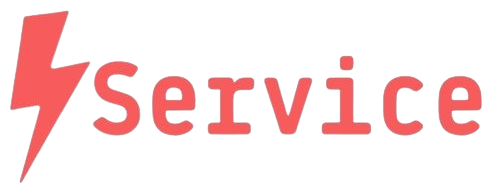
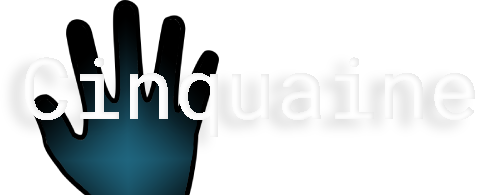
Update_css

diff --git a/assets/css/style.css b/assets/css/style.css
@@ -1,0 +1,100 @@
+@font-face {
+    font-family: Roboto;
+    src: url("../../font/Roboto_Mono/RobotoMono-VariableFont_wght.ttf");
+}
+
+:root {
+    --blue-color: #1F657E;
+}
+
+body {
+    font-family: "Roboto";
+    color: white;
+}
+
+.bckgroundblack {
+    background-color: black;
+}
+
+nav {
+    background-image: url("../image/navbckground.png");
+    width: 100%;
+    height: 200px;
+    background-repeat: no-repeat;
+    background-size: cover;
+    padding-top: 15vh;
+    color: white;
+    padding-left: 1vw;
+    padding-right: 1vw;
+}
+
+footer {
+    background-color: black;
+}
+
+footer .bkground {
+    padding-top: 2vh;
+    align-items: center;
+    background-image: url("../image/Footer\ Bckground.png");
+    width: 100%;
+    min-height: 100px;
+    background-repeat: no-repeat;
+    background-size: cover;
+}
+
+.brand {
+    width: 70px;
+    height: 70px;
+    position: relative;
+    top: 7px;
+}
+
+.nav-link,
+.navbar-brand {
+    color: white !important;
+}
+
+.loginform {
+    background: rgba(31, 101, 126, 0.4);
+    border-radius: 10px;
+    text-align: center;
+    margin: 5% 10%;
+    margin-top: 5%;
+    margin-right: 10%;
+    margin-bottom: 5%;
+    margin-left: 10%;
+    padding: 7% 5%;
+}
+
+.form-group {
+    color: black;
+    margin-bottom: 5%;
+}
+
+.form-group label {
+    margin-right: 10%;
+    font-weight: lighter;
+}
+
+.form-group label,.loginform button{
+    font-size: 25px;
+}
+
+.form-group input {
+    width: 33%;
+    height: 5vh;
+}
+
+.loginform button {
+    color: white;
+    background-color: var(--blue-color);
+    padding: 1% 5%;
+}
+.loginform a{
+    text-decoration: none;
+    color: white;
+}
+.loginform a:hover{
+    text-decoration: underline;
+    color: black;
+}

diff --git a/view/Homepage.php b/view/Homepage.php
@@ -1,11 +1,11 @@
 <!-- Section-->
-<section style="font-family: 'Roboto Mono', monospace" class="py-5">
+<section  class="py-5">
     <div class="container">
         <form class="form-inline" action="/recherche/" method="get">
           <fieldset>
             <div class="input-group">
               <div class="input-group-prepend">
-                <select id="oCategorie" name="oCategorie" class="form-control" style="width:200px">
+                <select id="oCategorie" name="oCategorie" class="form-control">
                   <option selected="selected" value="0">Catégorie</option>
                   <option value="1">Voyage</option>
                   <option value="5">Jeux</option>
@@ -15,7 +15,7 @@
               </div>
               <input id="oSaisie" name="oSaisie" type="text" class="form-control" aria-label="Saisie de mots clés" required="required" placeholder="Saisie de mots clés . . .">
               <div class="input-group-append">
-                <button class="btn btn-primary" type="submit" style="width:200px">Recherche</button>
+              <button class="btn btn-secondary" type="submit" style="width:200px">Recherche</button>
               </div>
             </div>
           </fieldset>
@@ -29,7 +29,7 @@
                     <div class='col mb-5'>
                         <div class='card h-100'>
                             <!-- Product image-->
-                            <img class='card-img-top' src='assets/css/dessin.jpg' alt='...' />
+                            <img class='card-img-top' src='assets/image/dessin.jpg' alt='...' />
                             <!-- Product details-->
                             <div class='card-body p-4'>
                                 <div class='text-center'>
@@ -59,6 +59,8 @@
         </div>
     </div>
 </section>
-<footer class="w-100 position-fixed bottom-0 bg-dark">
+<footer class="w-100 bottom-0 bg-dark">
+  <div class="bkground">
     <div class="container"><p class="m-0 text-center text-white">Copyleft &#127279; Session 2021-2022 Prism</p></div>
+  </div>
 </footer>

diff --git a/view/browseServices.php b/view/browseServices.php
@@ -4,7 +4,7 @@
           <fieldset>
             <div class="input-group">
               <div class="input-group-prepend">
-                <select id="oCategorie" name="oCategorie" class="form-control" style="width:200px">
+                <select id="oCategorie" name="oCategorie" class="form-control">
                   <option selected="selected" value="0">Catégorie</option>
                   <option value="1">Voyage</option>
                   <option value="5">Jeux</option>
@@ -14,7 +14,7 @@
               </div>
               <input id="oSaisie" name="oSaisie" type="text" class="form-control" aria-label="Saisie de mots clés" required="required" placeholder="Saisie de mots clés . . .">
               <div class="input-group-append">
-                <button class="btn btn-primary" type="submit" style="width:200px">Recherche</button>
+                <button class="btn btn-secondary" type="submit" style="width:200px">Recherche</button>
               </div>
             </div>
           </fieldset>
@@ -28,7 +28,7 @@
                     <div class='col mb-5'>
                         <div class='card h-100'>
                             <!-- Product image-->
-                            <img class='card-img-top' src='assets/css/dessin.jpg' alt='...' />
+                            <img class='card-img-top' src='assets/image/dessin.jpg' alt='...' />
                             <!-- Product details-->
                             <div class='card-body p-4'>
                                 <div class='text-center'>
@@ -58,7 +58,9 @@
         </div>
     </div>
 </section>
-<footer class="py-5 bg-dark">
-    <div class="container"><p class="m-0 text-center text-white">Copyright &copy; Session 2021-2022 Prism</p></div>
+<footer class="w-100 bottom-0 bg-dark">
+  <div class="bkground">
+    <div class="container"><p class="m-0 text-center text-white">Copyleft &#127279; Session 2021-2022 Prism</p></div>
+  </div>
 </footer>
 

diff --git a/view/Navbar.php b/view/Navbar.php
@@ -1,24 +1,25 @@
-<div class="d-flex position-relative justify-content-center align-items-center flex-column" style="background-image: url(assets/image/temp_banner.jpg); width: 100%; height: 200px; background-repeat: no-repeat; background-size: cover;">
-  <img src="assets/image/Service.png" height="50%">
-  <nav class="w-100 position-absolute bottom-0 navbar navbar-light bg-transparent">
-  <div class="container-fluid">
-    <a class="navbar-brand" href="#">Service</a>
-    <ul class="navbar-nav ms-auto mb-2 mb-lg-0">
+<div class="d-flex position-relative justify-content-center align-items-center flex-column bckgroundblack">
+  <img src="assets/image/Service.png" style="z-index: 99;">
+  <nav class="w-100 position-absolute bottom-0 navbar navbar-light bg-transparent" style="padding-top: 15vh;">
+    <div class="container-fluid">
+      <a class="navbar-brand" href="#">Service</a>
+      <ul class="navbar-nav ms-auto mb-2 mb-lg-0">
         <li class="nav-item">
-        <?php if (true): // TODO: Utilisateur est connecte! ?>
-        <a class="nav-link active" aria-current="page" href="#">
-          <i class="bi bi-person-circle"></i>
-          Mon profil
-        </a>
-        <?php else: ?>
-        <a class="nav-link active" aria-current="page" href="#">
-          <i class="bi bi-box-arrow-in-right"></i>
-          Se connecter
-        </a>
-        <?php endif ?>
+          <?php if (true) : // TODO: Utilisateur est connecte! 
+          ?>
+            <a class="nav-link active" aria-current="page" href="#">
+              <i class="bi bi-person-circle"></i>
+              Mon profil
+            </a>
+          <?php else : ?>
+            <a class="nav-link active" aria-current="page" href="#">
+              <i class="bi bi-box-arrow-in-right"></i>
+              Se connecter
+            </a>
+          <?php endif ?>
         </li>
       </ul>
     </div>
-  </div>
+</div>
 </nav>
 </div>

diff --git a/view/ConnectionForm.php b/view/ConnectionForm.php
@@ -1,18 +1,19 @@
-<form action="index.php?action=login&controller=controllerLogin" method="post">
-    <div class="container">
-        <label for="uname"><b>Username</b></label>
-        <input type="text" placeholder="Enter Username" name="uname" required>
+<div class="container">
+    <form action="index.php?action=login&controller=controllerLogin" method="post" class="loginform">
 
-        <label for="psw"><b>Password</b></label>
-        <input type="password" placeholder="Enter Password" name="psw" required>
-
-        <button type="submit">Login</button>
-        <label>
-            <input type="checkbox" checked="checked" name="remember"> Remember me
-        </label>
-    </div>
-
-    <div class="container" style="background-color:#f1f1f1">
-        <span class="psw">Forgot <a href="#">password?</a></span>
-    </div>
-</form>
+        <div class="form-group">
+            <label for="uname"><b>Username :</b></label>
+            <input type="text" placeholder="Enter Username" name="uname" required>
+        </div>
+        <div class="form-group">
+            <label for="psw"><b>Password :</b></label>
+            <input type="password" placeholder="Enter Password" name="psw" required>
+        </div>
+        <button class="btn" type="submit">Connexion</button>
+        <div class="form-check">
+            <input type="checkbox" checked="checked" name="remember">
+            <label>Remember me</label>
+        </div>
+        <div class="psw"><a href="#">Forgot password?</a></div>
+    </form>
+</div>

diff --git a/controller/controllerHome.php b/controller/controllerHome.php
@@ -9,6 +9,7 @@ class ControllerHome
 		$services = Service::getAllServices();
 		require_once("view/Navbar.php");
 		require_once("view/Homepage.php");
+		require_once("view/Footer.php");
 	}
 
 	public static function displayProfile()
@@ -17,12 +18,14 @@ class ControllerHome
 		//$services = Service::getAllServicesById();
 		require_once("view/Navbar.php");
 		require_once("view/Profile.php");
+		require_once("view/Footer.php");
 	}
 
 	public static function displaySettings()
 	{
 		require_once("view/Navbar.php");
 		require_once("view/Settings.php");
+		require_once("view/Footer.php");
 	}
 
 	public static function displayLogin()

diff --git a/index.php b/index.php
@@ -9,7 +9,7 @@
     <link rel="icon" type="image/x-icon" href="assets/favicon.ico" />
     <link href="https://cdn.jsdelivr.net/npm/bootstrap-icons@1.5.0/font/bootstrap-icons.css" rel="stylesheet" />
 	<link rel="stylesheet" href="assets/css/bootstrap_5.1.3/bootstrap.min.css">
-    <link href="assets/css/nav.css" rel="stylesheet"/>
+    <link href="assets/css/style.css" rel="stylesheet"/>
 	<script src="js/bootstrap_5.1.3/bootstrap.bundle.min.js" defer></script>
 </head>
 <body>

diff --git a/controller/controllerLogin.php b/controller/controllerLogin.php
@@ -7,11 +7,13 @@ class ControllerLogin
     {
         require_once("view/Navbar.php");
         require_once("view/ConnectionForm.php");
+        require_once("view/Footer.php");
     }
     public static function displayRegister()
     {
         require_once("view/Navbar.php");
         require_once("view/RegisterForm.php");
+        require_once("view/Footer.php");
     }
 
     public static function login()

diff --git a/view/Footer.php b/view/Footer.php
@@ -1,0 +1,5 @@
+<footer class="w-100 bottom-0 bg-dark">
+  <div class="bkground">
+    <div class="container"><p class="m-0 text-center text-white">Copyleft &#127279; Session 2021-2022 Prism</p></div>
+  </div>
+</footer>
